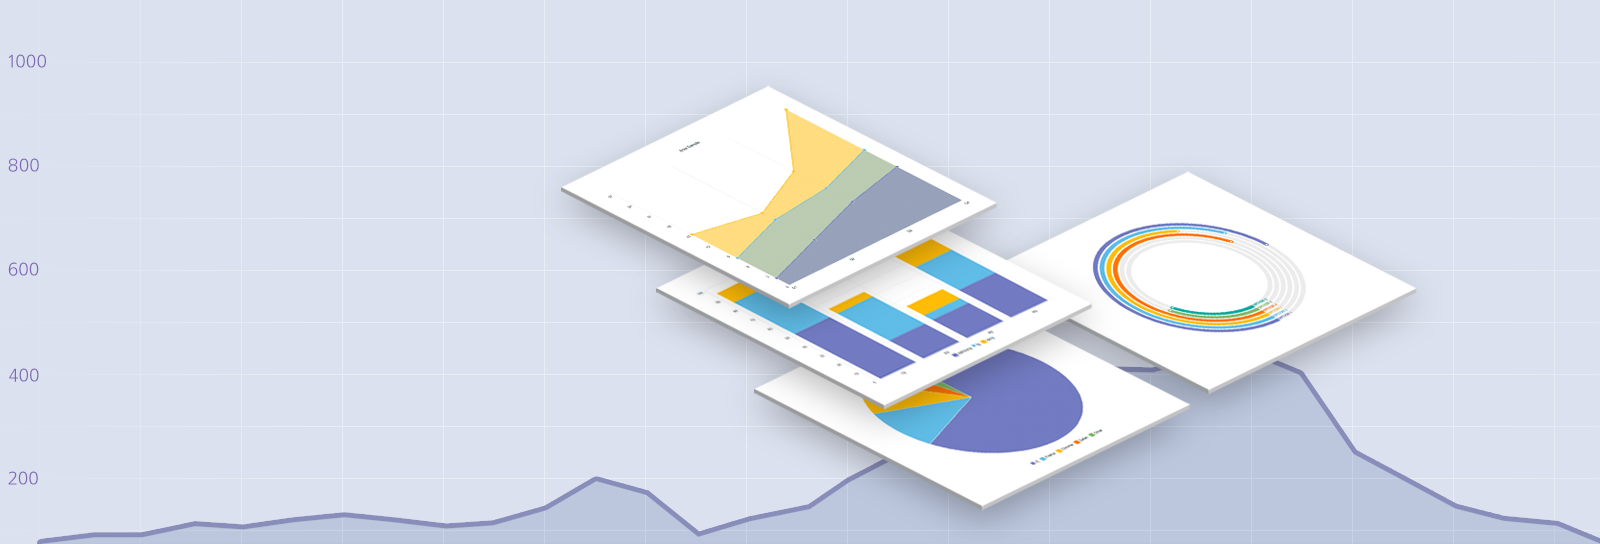
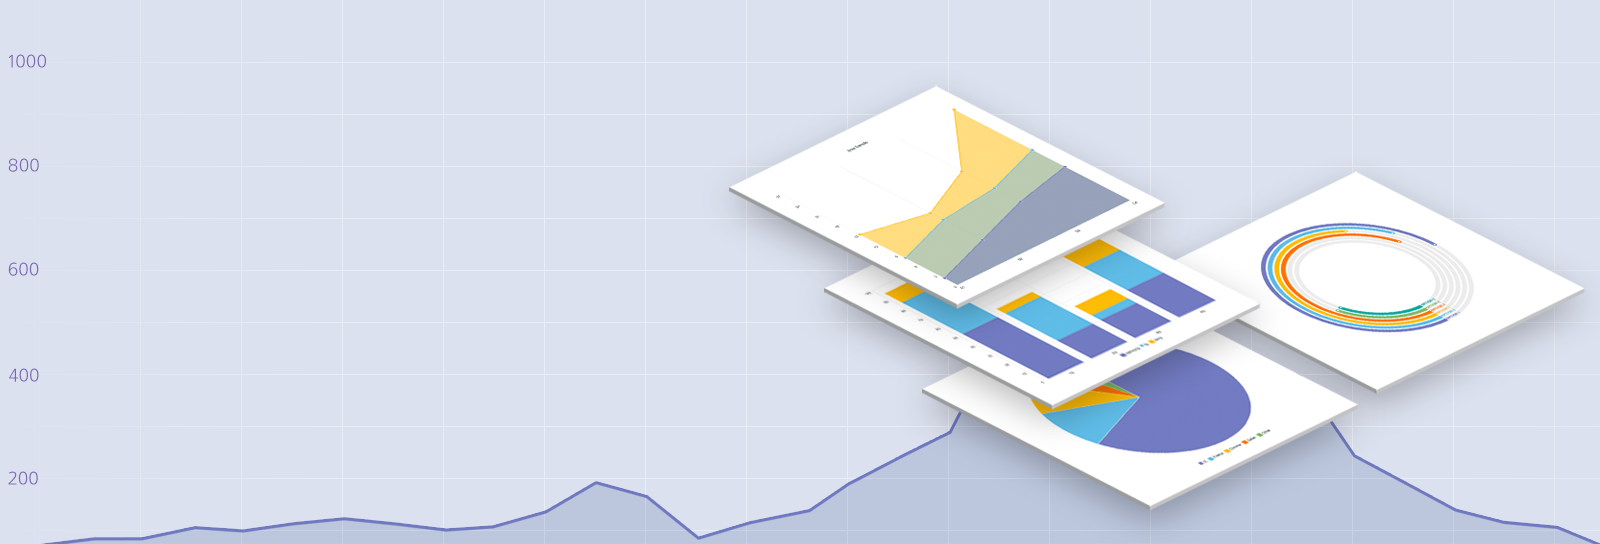
1. add slider page navigation 2. add slider controller 3. home style changed

diff --git a/res/index.css b/res/index.css
@@ -27,10 +27,10 @@ nav {
 
 .main {
 	position: relative;
-	height: 600px;
+	height: 534px;
 }
 
-.main > * {
+.main > nav {
 	position: absolute !important;
 	top: 74px;
 	border-bottom-width: 0px !important;
@@ -40,13 +40,13 @@ nav {
 .main > nav:nth-child(1) {
 	background-color: #64548d !important;
 	background-image: url("img/headline.png") !important;
-	background-repeat: repeat-x !important;
+	background-repeat: no-repeat !important;
 }
 
 .main > nav:nth-child(2) {
 	background-color: #dbe1ee !important;
 	background-image: url("img/headline2.png") !important;
-	background-repeat: repeat-x !important;
+	background-repeat: no-repeat !important;
 	display: none;
 }
 
@@ -64,6 +64,64 @@ nav {
 	display: none;
 }
 
+.main .dotnav {
+	position: absolute;
+	top: 540px;
+	background: transparent;
+	z-index: 3000;
+	height: 40px;
+	line-height: 40px;
+	-webkit-transition: background-color 0.15s ease-in-out;
+	transition: background-color 0.15s ease-in-out;
+	width: 100%;
+	text-align: center;
+}
+
+.main .dotnav ul {
+	display: inline-block;
+	list-style: none;
+	margin: 0;
+	padding: 0;
+}
+
+.main .dotnav li {
+	list-style: none;
+	margin: 0 10px;
+	width: 8px;
+	height: 8px;
+	float: left;
+	position: relative;
+}
+
+.main .dotnav a {
+	top: 0;
+	left: 0;
+	width: 8px;
+	height: 8px;
+	outline: none;
+	position: absolute;
+	border-radius: 50%;
+	background-color: #999999;
+	font: 0/0 a;
+	color: transparent;
+}
+
+.main .dotnav a:hover {
+	background-color: #fff;
+}
+
+.main .dotnav a.current {
+	top: -1px;
+	left: -1px;
+	width: 8px;
+	height: 8px;
+	border-style: solid;
+	border-width: 1px;
+	border-color: #b380ff;
+	background-color: transparent;
+	cursor: default;
+}
+
 nav .container {
 	text-align: center;
 	padding-top: 165px;
@@ -71,12 +129,10 @@ nav .container {
 
 nav .container-2 {
 	padding-top: 125px;
-	margin-left: -45px;
 }
 
 nav .container-3 {
-	padding-top: 200px;
-	padding-left: 110px;
+	padding-top: 220px;
 }
 
 nav .container-4 {
@@ -85,32 +141,36 @@ nav .container-4 {
 }
 
 nav .detail {
-	font-family: "Nanum Gothic";
-	font-size: 16px;
-	text-shadow: 0px 1px #6f5d9d;
-	line-height: 1.6em;
+	font-family: "Apple SD Gothic NEO", "Nanum Gothic", "Helvetica Neue", "Helvetica", "Dotum", "Arial", "Verdana", "sans-serif";
+	font-size: 1.3em;
+	font-weight: 400;
+	line-height: 1.75;
 }
 
 nav .container .detail {
-	padding-top: 48px;
+	padding-top: 40px;
 	color: #fff;
 	text-align: center;
+	text-shadow: 0px 1px rgba(0,0,0,0.5);
 }
 
 nav .container-2 .detail {
 	padding-top: 36px;
-	color: #333;
+	color: #666;
+	text-shadow: 0px 1px rgba(255,255,255,0.5);
 }
 
 nav .container-3 .detail {
 	padding-top: 40px;
-	color: #333;
+	color: #666;
+	text-shadow: 0px 1px rgba(255,255,255,0.5);
 }
 
 nav .container-4 .detail {
 	padding-top: 44px;
 	color: #fff;
 	text-align: center;
+	text-shadow: 0px 1px rgba(0,0,0,0.5);
 }
 
 nav .container .img-logo {
@@ -479,7 +539,7 @@ footer .line {
 	cursor: pointer;
 	z-index: 2000;
 	top: 290px;
-	opacity: 0.5;
+	opacity: 0;
 }
 .img-control-left {
 	background-position: -442px -234px;
@@ -488,4 +548,11 @@ footer .line {
 .img-control-right {
 	background-position: -511px -234px;
 	right: 25px;
+}
+
+.img-download-main {
+	background-position: -442px -314px;
+	width: 199px;
+	height: 54px;
+	margin-top: 40px;
 }

diff --git a/res/index.js b/res/index.js
@@ -275,13 +275,15 @@ function loadPage(hash, src) {
 function initAnimation() {
 	var $slider = $(".main").find("nav"),
 		$prev = $(".img-control-left"),
-		$next = $(".img-control-right");
+		$next = $(".img-control-right"),
+		$page = $(".dotnav").find("a");
 
 	var index = 0,
 		count = $slider.size(),
 		isRun = false,
-		duration = 500,
-		opacity = 1;
+		duration = 300,
+		opacity = 1,
+		interval = 30000;
 
 	function prev() {
 		var prev = index,
@@ -344,9 +346,12 @@ function initAnimation() {
 	}
 
 	function show() {
+		$page.removeClass("current");
+
 		$slider.each(function(i) {
 			if(i == index) {
 				$(this).show();
+				$($page.get(i)).addClass("current");
 			} else {
 				$(this).hide();
 			}
@@ -355,12 +360,17 @@ function initAnimation() {
 		isRun = false;
 	}
 
+	$page.on("click", function(e) {
+		index = $page.index(this);
+		show();
+	});
+
 	$prev.on("click", function(e) {
 		next();
 	}).hover(function(e) {
 		$prev.fadeTo(duration, opacity);
 	}, function(e) {
-		$prev.fadeTo(duration, opacity / 2);
+		$prev.fadeTo(duration, opacity / 5);
 	});
 
 	$next.on("click", function(e) {
@@ -368,16 +378,18 @@ function initAnimation() {
 	}).hover(function(e) {
 		$next.fadeTo(duration, opacity);
 	}, function(e) {
-		$next.fadeTo(duration, opacity / 2);
+		$next.fadeTo(duration, opacity / 5);
 	});
 
 	$slider.parent().hover(function(e) {
-		$prev.fadeTo(duration, opacity / 2);
-		$next.fadeTo(duration, opacity / 2);
+		$prev.fadeTo(duration, opacity / 5);
+		$next.fadeTo(duration, opacity / 5);
 	}, function(e) {
-		$prev.fadeOut(duration);
-		$next.fadeOut(duration);
+		$prev.fadeTo(duration, 0);
+		$next.fadeTo(duration, 0);
 	});
+
+	setInterval(prev, interval);
 }
 
 jui.ready(function(ui, uix, _) {

diff --git a/doc/index.html b/doc/index.html
@@ -49,6 +49,8 @@
 					JENNIFER UI는 제니퍼소프트의 차기작인 HTML5 기반의 APM 솔루션인 JENNIFER5에서<br/>
 					사용되는 UI 컴포넌트를 정리한 라이브러리입니다.
 				</div>
+
+				<a href="https://github.com/seogi1004/jui/archive/master.zip"><div class="img img-download-main"></div></a>
 			</div>
 		</div>
 	</nav>
@@ -94,6 +96,17 @@
 
 	<div class="img img-control-left"></div>
 	<div class="img img-control-right"></div>
+
+	<div class="center">
+		<div class="dotnav">
+			<ul>
+				<li><a class="current" href="#"></a></li>
+				<li><a href="#"></a></li>
+				<li><a href="#"></a></li>
+				<li><a href="#"></a></li>
+			</ul>
+		</div>
+	</div>
 </div>
 
 <nav class="navbar navbar-fixed-top about">
@@ -111,6 +124,7 @@
     </div>
 </nav>
 
+<!--
 <nav class="navbar navbar-fixed-top download">
 	<div class="center row">
 		<div class="col col-6 msg-list">
@@ -118,12 +132,10 @@
 			<div class="msg2">지금 GitHub를 통해 오픈소스 프로젝트에 참여해주세요.</div>
 			<div class="msg2">단순하고 편리한 UI로 Front-End 개발자에게 새로운 가능성을 제시합니다.</div>
 		</div>
-		<div class="col col-6 btn-list">
-			<a href="https://github.com/seogi1004/jui/archive/master.zip"><div class="img img-download1"></div></a>&nbsp;
-			<a href="https://github.com/seogi1004/jui" target="_blank"><div class="img img-download2"></div></a>
-		</div>
+
 	</div>
 </nav>
+-->
 
 <nav class="navbar navbar-fixed-top sub">
 	<div class="center">
